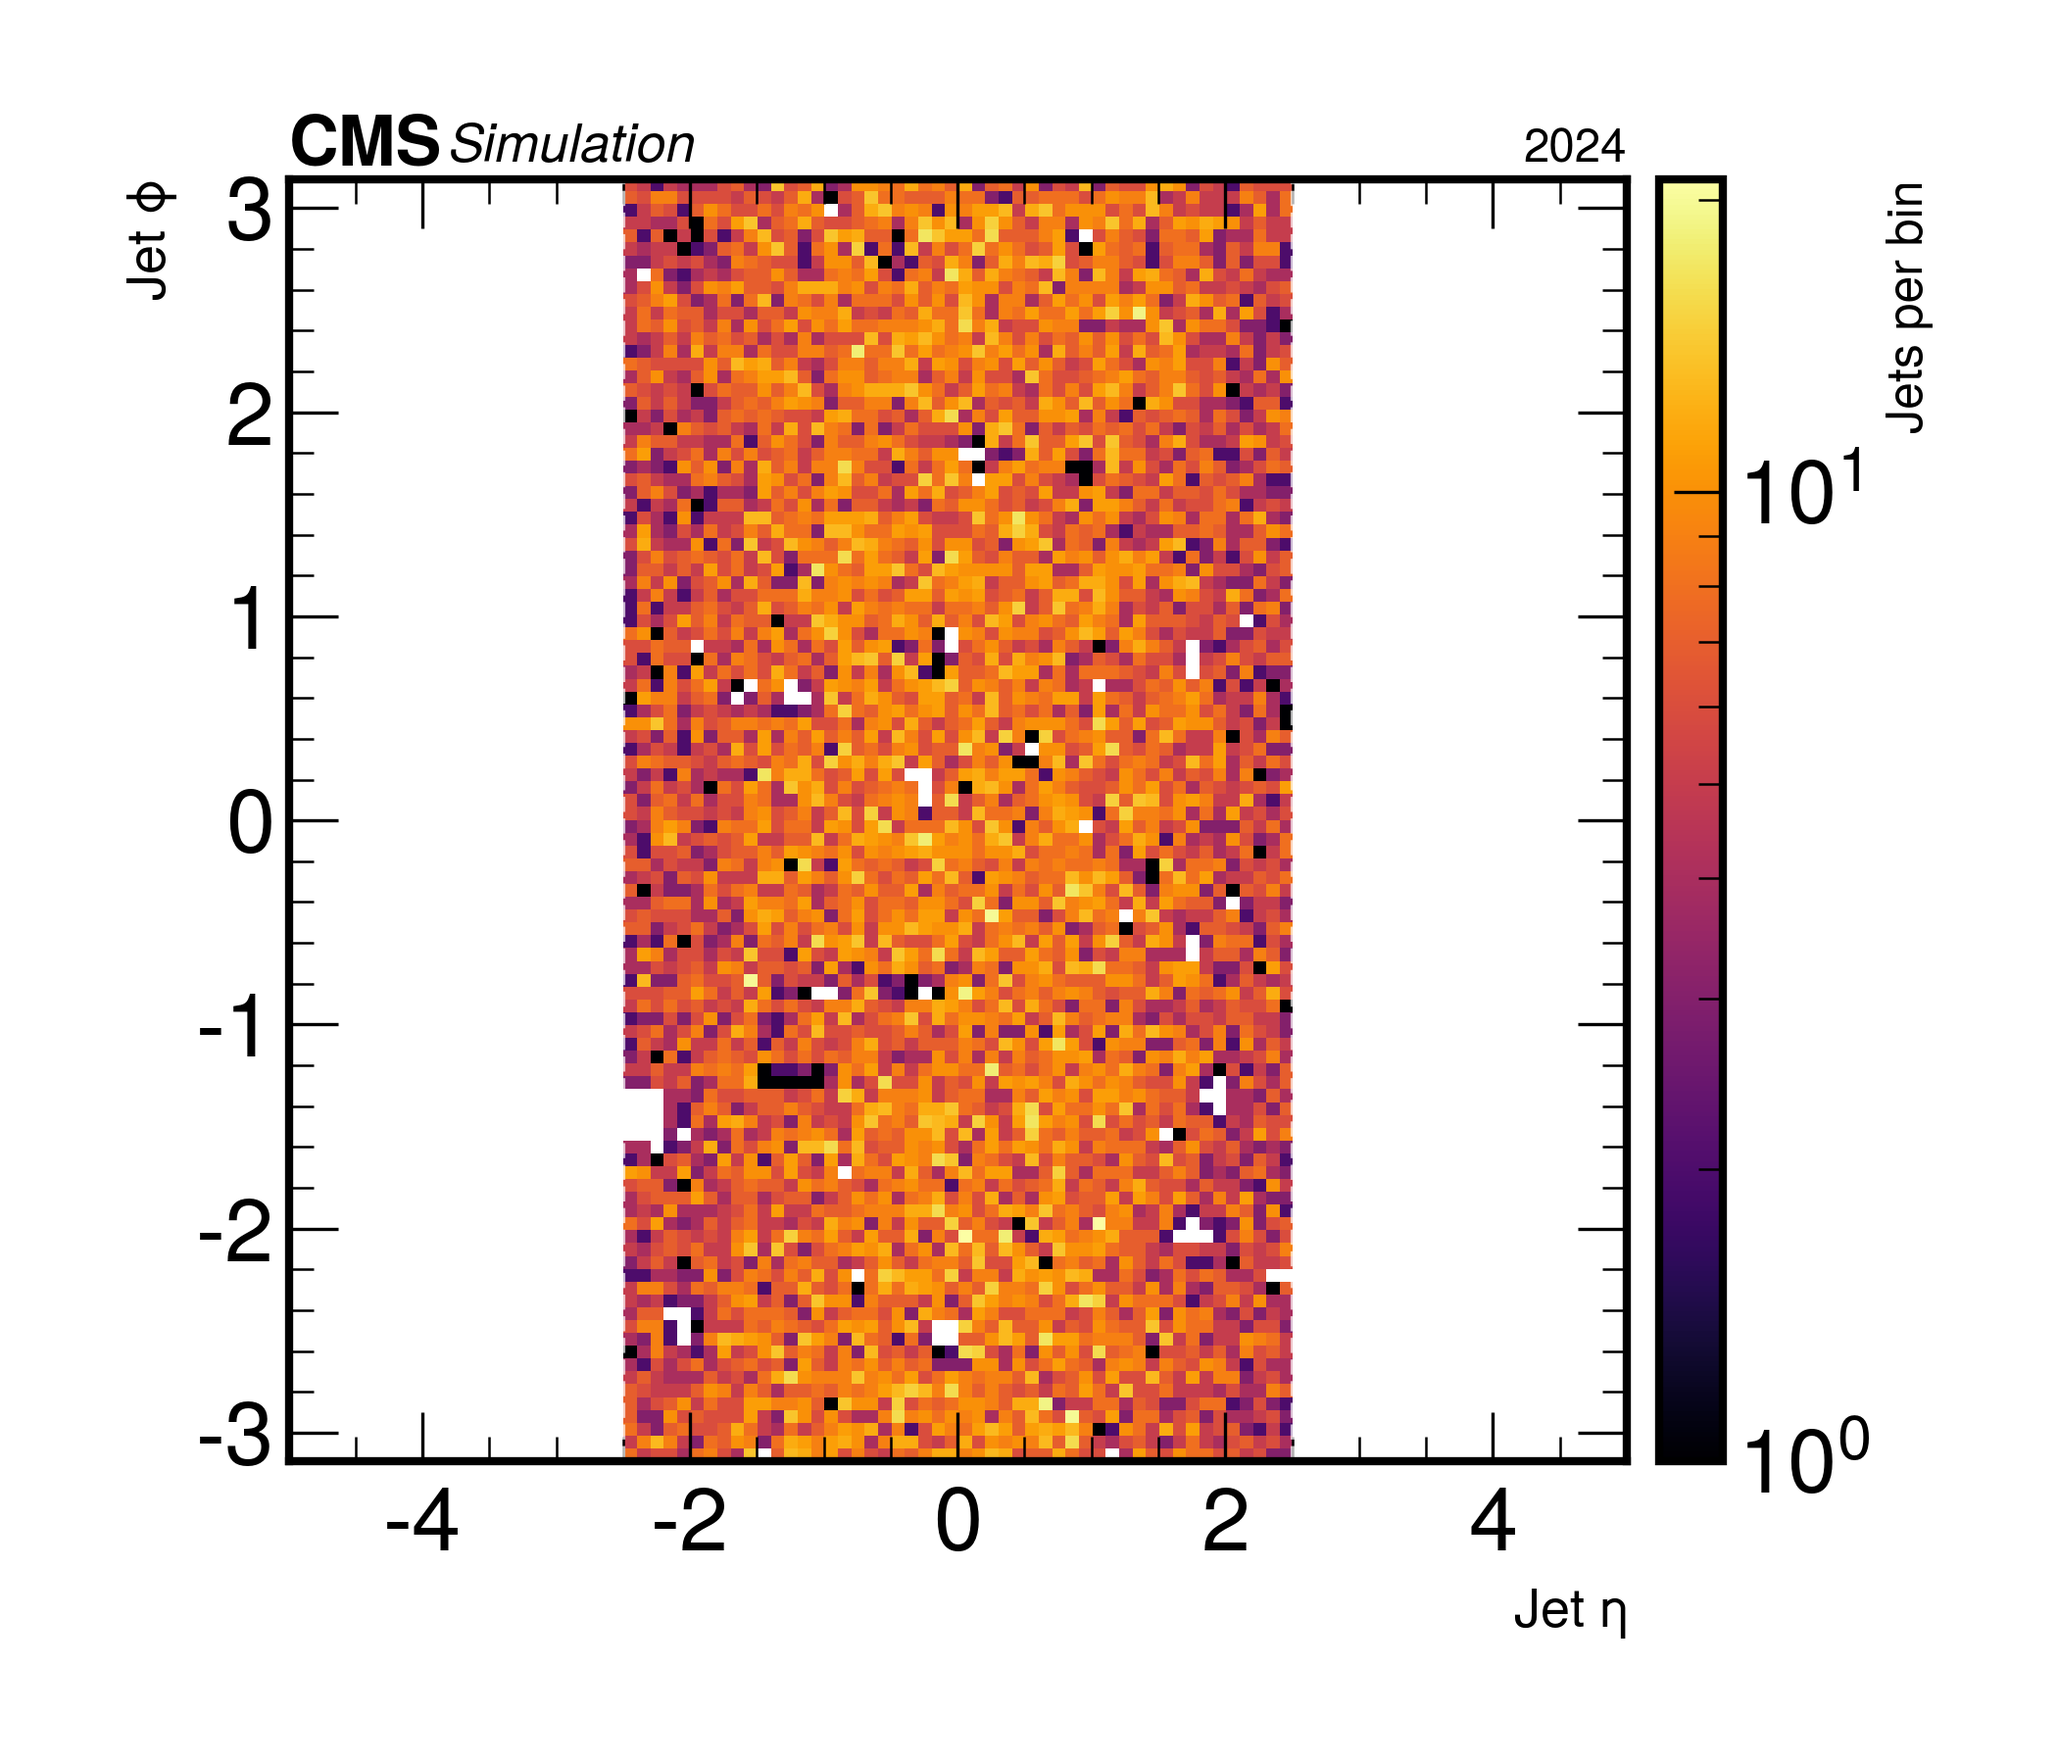
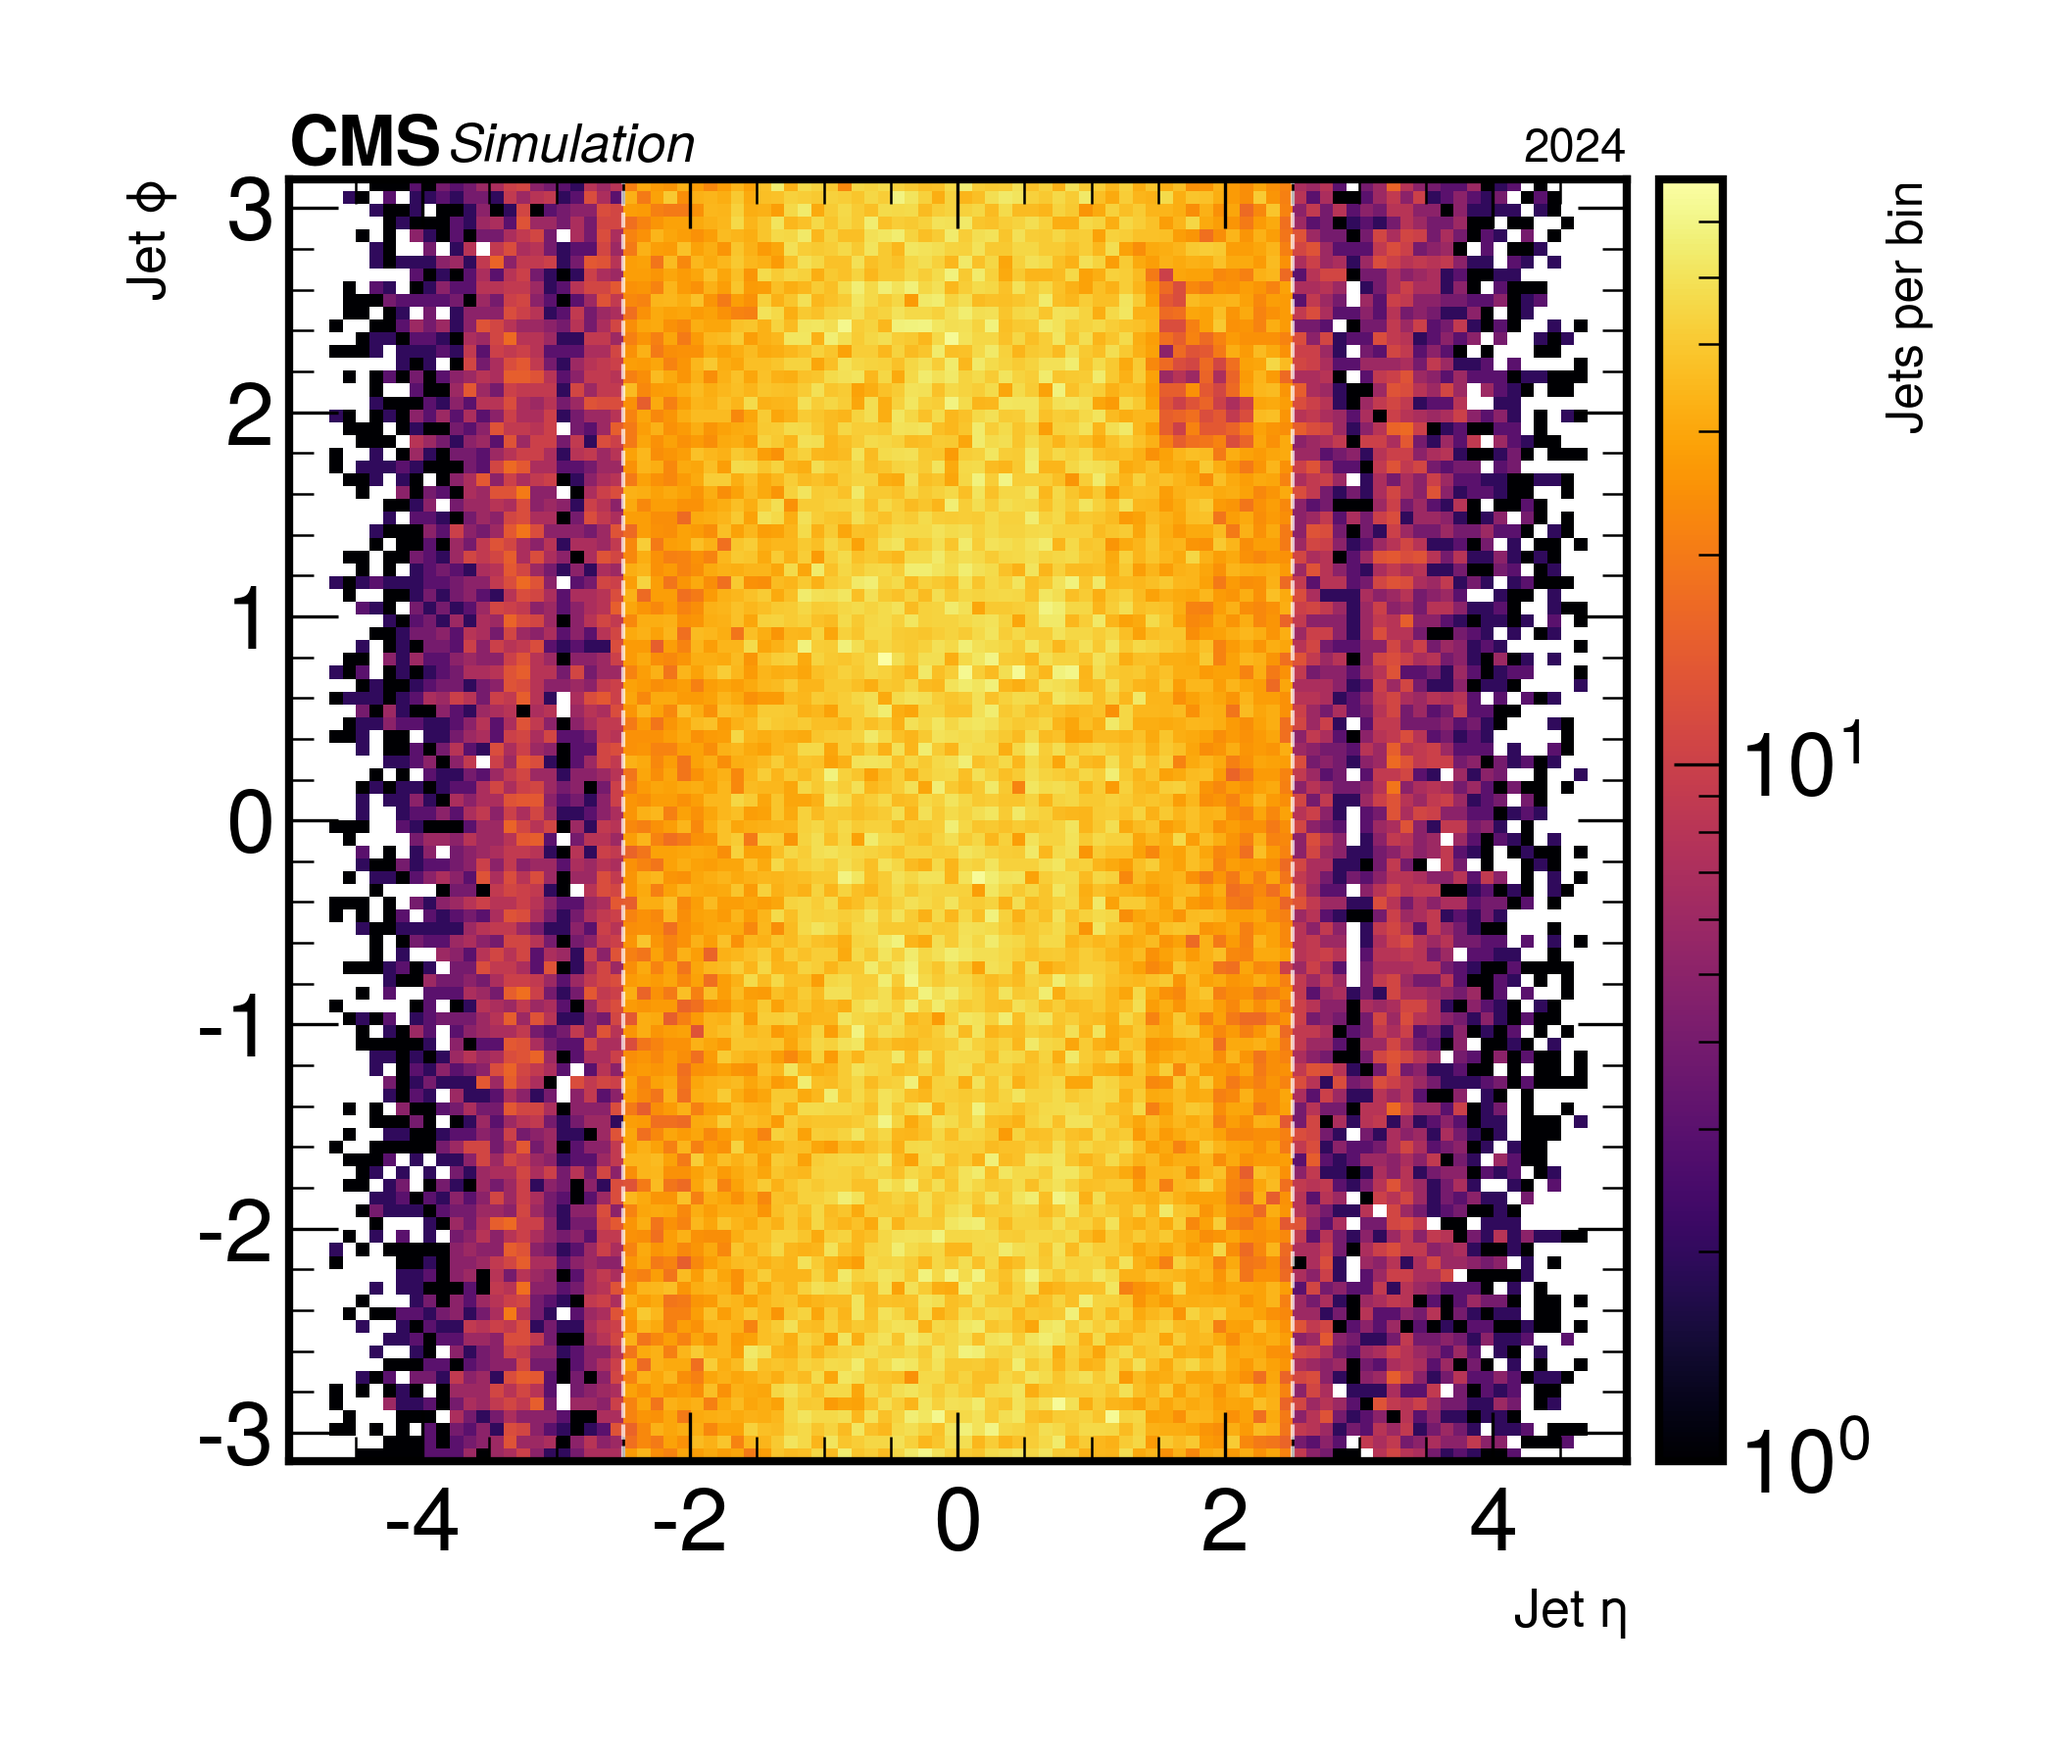
JME OR

diff --git a/sample_study/sample_study_OR/JME_OR/2D_jet_eta_phi.py b/sample_study/sample_study_OR/JME_OR/2D_jet_eta_phi.py
@@ -12,8 +12,24 @@ import mplhep as hep
 # Configuration
 # --------------------------------
 # base_path = "/afs/cern.ch/user/s/sraj/Analysis/output_root/sample_final_nominal/preBPix/"
-base_path = "/afs/cern.ch/user/s/sraj/Analysis/output_root/sample_final_nominal/2024/"
-parquet_files = glob.glob(f"{base_path}/GGJets_MGG-40to80*.parquet")
+# base_path = "/afs/cern.ch/user/s/sraj/Analysis/output_root/sample_final_nominal/2024/"
+base_path = "/afs/cern.ch/user/s/sraj/Analysis/output_root/sample_final_nominal/postEE"
+# parquet_files = glob.glob(f"{base_path}/Data_EraE.parquet") # use for the background
+
+data_eras = ["EraE", "EraF", "EraG"]
+
+parquet_files = []
+for era in data_eras:
+    parquet_files += glob.glob(f"{base_path}/Data_{era}.parquet")
+
+if not parquet_files:
+    raise RuntimeError("No Data parquet files found for EraE/F/G")
+
+print("Using data files:")
+for pf in parquet_files:
+    print("  ", pf)
+
+
 
 if not parquet_files:
     raise RuntimeError("No GGJets_MGG-40to80 parquet files found")
@@ -107,7 +123,7 @@ plt.axvline(-2.5, color="white", ls="--", lw=1, alpha=0.7)
 
 # CMS-style annotation
 hep.cms.text("Simulation", loc=0, fontsize=13)
-hep.cms.lumitext("2024", fontsize=12)
+hep.cms.lumitext("2022PostEE", fontsize=12)
 
 # plt.title(
 #     # "GGJets_MGG-40to80\n"
@@ -117,7 +133,7 @@ hep.cms.lumitext("2024", fontsize=12)
 
 plt.tight_layout()
 plt.savefig(
-    "jet_etaphi_2024_GGJets_MGG40to80_CMSstyle.png",
+    "jet_etaphi_2022PostEE_GGJets_MGG40to80_CMSstyle.png",
     dpi=300
 )
 plt.close()
